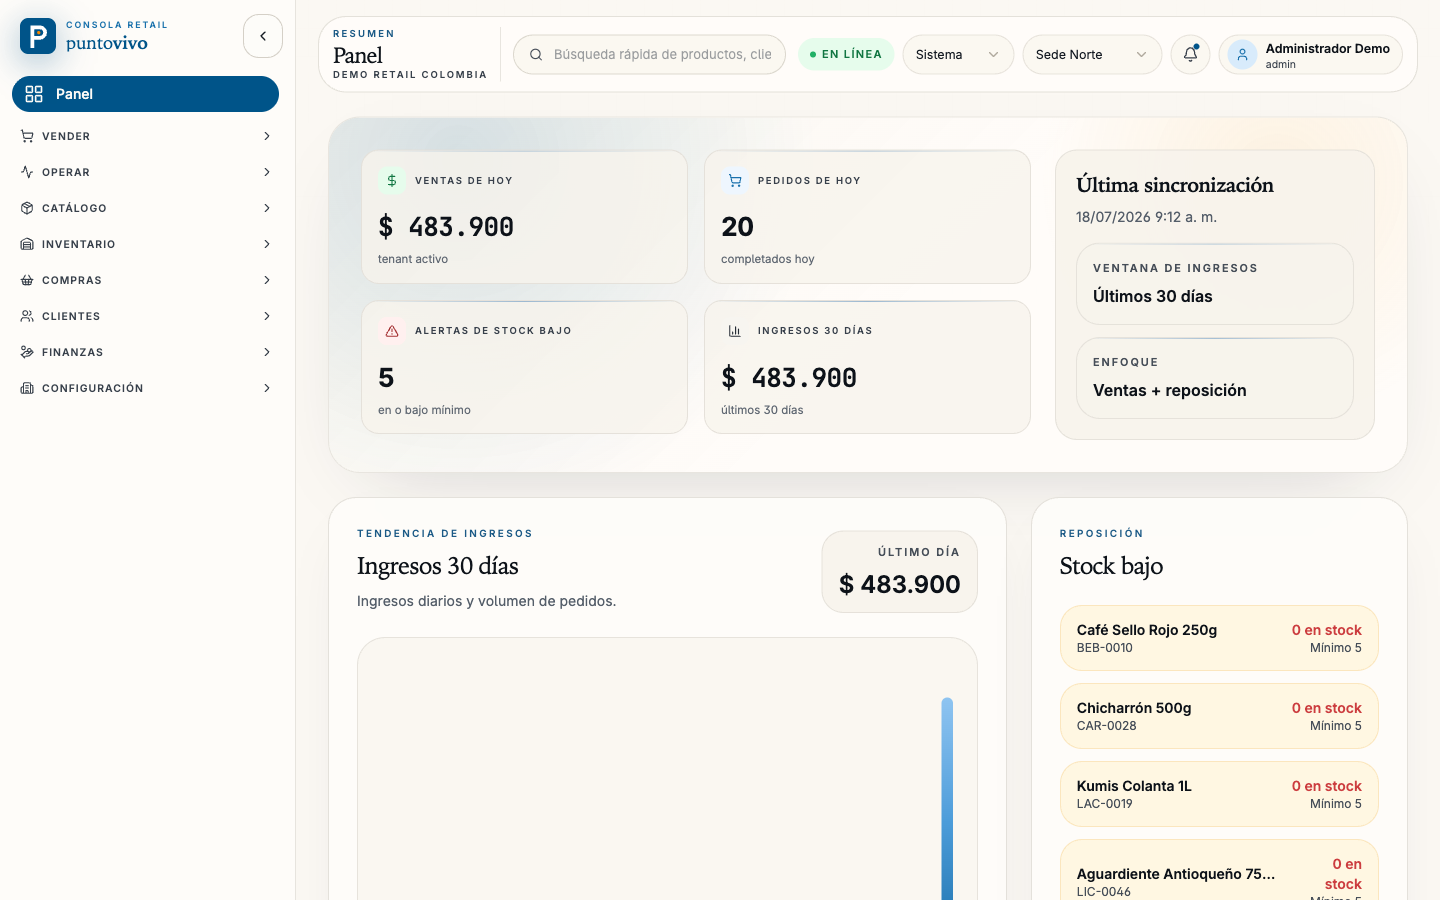
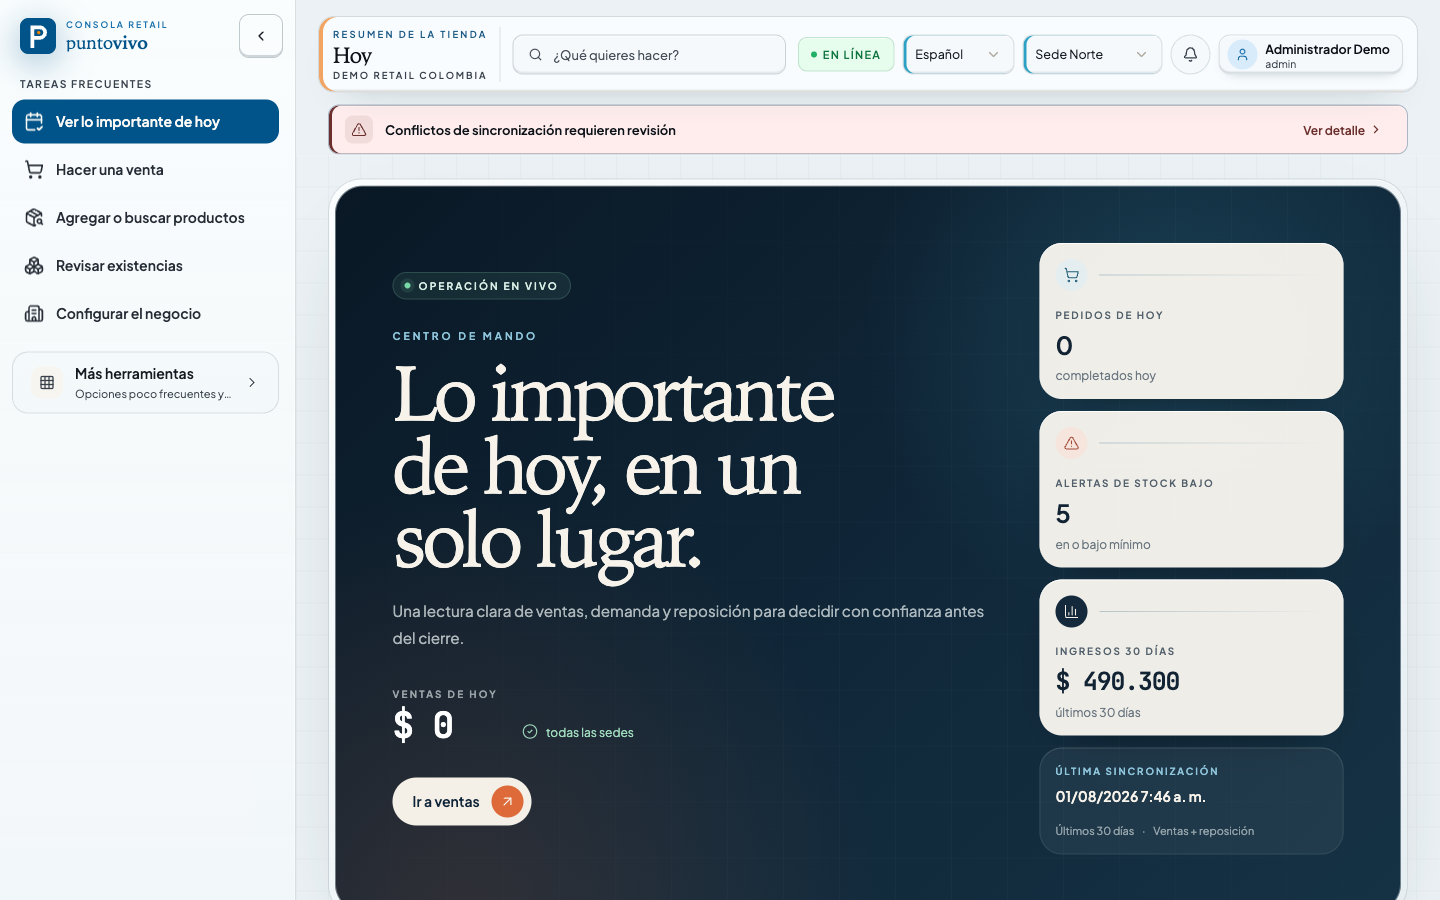
docs(release): prepare public v1.9.0 surfaces
- Refresh product screenshots and readiness evidence
- Align website fiscal, hardware, and release language
- Simplify operator-facing inventory and marketing copy

diff --git a/website/src/lib/release.js b/website/src/lib/release.js
@@ -1,10 +1,9 @@
 // Repo URLs and the latest-release lookup, shared by the footer version tag
 // and the smart download CTA.
 //
-// The React version was a hook that fetched on mount. The static build renders
-// the no-release state into the HTML (which is what every visitor sees today,
-// because no release exists yet) and a small progressive-enhancement script
-// upgrades it in place if the fetch succeeds. Failure — offline, rate limit, no
+// The static build renders a durable source-code fallback into the HTML, and a
+// small progressive-enhancement script upgrades it in place with the latest
+// GitHub release when the lookup succeeds. Failure — offline, rate limit, or no
 // releases — leaves the rendered fallback untouched.
 
 export const REPO_URL = 'https://github.com/johnny4young/puntovivo';

diff --git a/website/src/scripts/release.js b/website/src/scripts/release.js
@@ -1,8 +1,8 @@
 // Progressive enhancement for the latest GitHub release.
 //
-// The HTML already renders the honest no-release state: the footer shows the
-// neutral "open source · MIT" tag and the download CTA points at the repo
-// ("build from source"). If the lookup finds a real release this upgrades both
+// The HTML already renders an honest fallback: the footer shows the neutral
+// "open source · MIT" tag and the download CTA points at the repo ("build from
+// source"). If the lookup finds the latest release this upgrades both
 // in place — version tag, per-OS installer link, and button label. Any failure
 // (no releases, rate limit, offline) leaves the rendered fallback exactly as it
 // is, which is why nothing here throws.

diff --git a/docs/PROJECT-STATUS.md b/docs/PROJECT-STATUS.md
@@ -1,6 +1,6 @@
 # Puntovivo Project Status
 
-> Updated: 2026-07-30. This is the public source of truth for shipped
+> Updated: 2026-08-01. This is the public source of truth for shipped
 > capabilities and release readiness. Internal prioritization, estimates, and
 > execution notes stay in an ignored private planning artifact.
 
@@ -17,6 +17,8 @@ The current `main` branch includes:
 
 - barcode-first sales, suspended carts, split tenders, refunds, voids, receipt
   reprints, credit sales, loyalty points, and manager approval controls;
+- operator-first task navigation, command search, guided business setup, and
+  plain-language readiness and recovery surfaces for non-technical staff;
 - active declarative receipt templates shared by live preview, browser/Electron
   system printing, server and hub-client ESC/POS output, with native QR/Code
   128 symbols, immutable fiscal evidence, sale-time display, business identity,
@@ -57,7 +59,7 @@ The current `main` branch includes:
 | Stage                          | Verdict                       | Evidence and remaining gate                                                                                                                                                                  |
 | ------------------------------ | ----------------------------- | -------------------------------------------------------------------------------------------------------------------------------------------------------------------------------------------- |
 | Development demo               | **Ready**                     | Ten shift-defining journeys have an executable EN/ES and adaptive evidence index; store-scale read, import, encrypted-backup, queue, memory, and built-runtime launch budgets are automated. |
-| Controlled internal beta       | **Ready with release checks** | Automated local upgrade and isolated encrypted restore evidence is available; a clean release candidate and platform packaging validation remain required.                                   |
+| Controlled internal beta       | **Ready with release checks** | Automated local upgrade, isolated encrypted restore, and cross-platform runtime evidence are available; a trusted release candidate still needs clean install, upgrade, rollback, and packaged recovery validation. |
 | Private Colombian retail pilot | **Not ready**                 | Requires a real fiscal provider path, contingency operation, signed fiscal receipt proof, and validation against the selected printer, drawer, scanner, and payment terminal.                |
 | Production sale                | **Not ready**                 | Requires fiscal certification, legal retention evidence, signed installers, hardware support policy, incident runbooks, and an observed pilot.                                               |
 

diff --git a/README.md b/README.md
@@ -96,7 +96,7 @@ Puntovivo is under active development. Honest gates:
 | Stage                    | Verdict                   | Why                                                                                                                                                        |
 | ------------------------ | ------------------------- | ---------------------------------------------------------------------------------------------------------------------------------------------------------- |
 | Development demo         | Ready                     | The retail core, workforce, serialized inventory, launch import, privacy, backup, and operations surfaces are demonstrable and covered by automated tests. |
-| Controlled internal beta | Ready with release checks | Requires a clean release candidate, upgrade/restore rehearsal, and cross-platform package validation.                                                      |
+| Controlled internal beta | Ready with release checks | Automated upgrade/restore and cross-platform runtime checks are available; a trusted release candidate still needs clean install, upgrade, rollback, and recovery validation.               |
 | Private retail pilot     | Not yet                   | Fiscal contingency, certified provider transmission, final fiscal receipt proof, and physical POS hardware still need to close.                            |
 | Production sale          | No                        | Requires fiscal certification, legal retention evidence, signed installers, hardware validation, payment-terminal policy, and an observed pilot.           |
 
@@ -109,6 +109,10 @@ The canonical capability inventory, remaining gaps, and release gates live in
   certificate, and numbering resolution.
 - Hardware printer, drawer, scanner, and terminal certification require a
   physical lab.
+- Signed installer trust, clean upgrade/rollback, and packaged recovery still
+  require production-equivalent release credentials and representative hosts.
+- Moderated evidence with non-technical cashiers and external alert delivery
+  remain required before a private pilot.
 - Hosted SaaS, public demo tenants, tenant clone, and micro-storefronts depend
   on the hosted deployment substrate spike.
 - Restaurant / KDS / services / pharmacy depth moves only when a pilot makes
